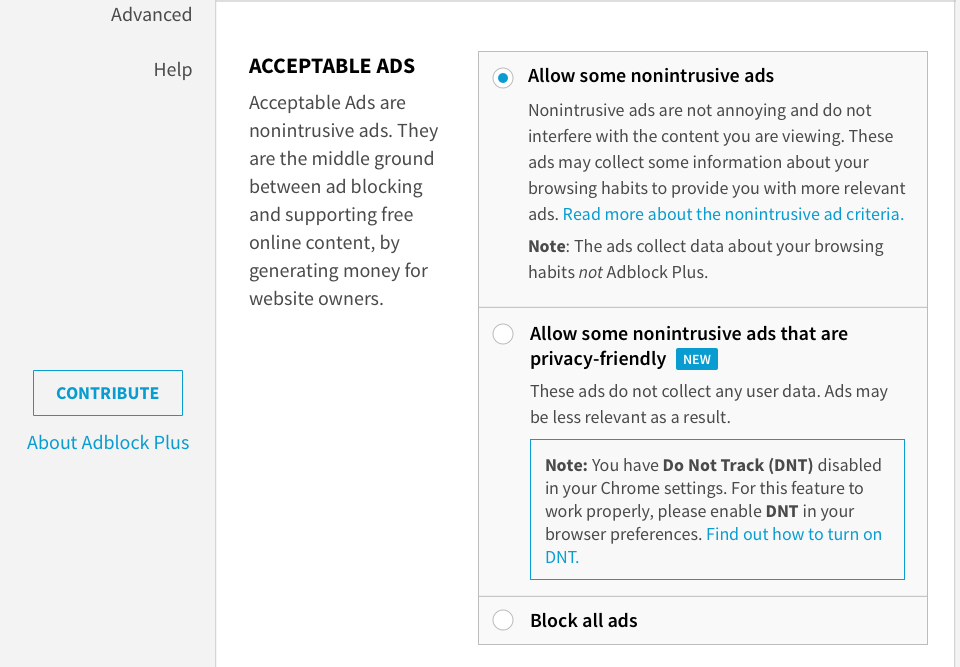
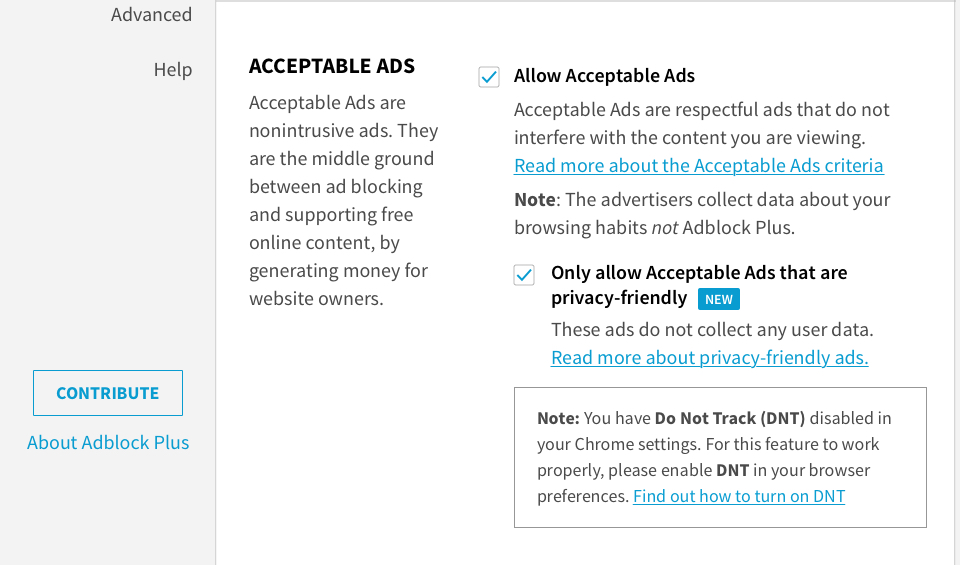
Issue #58: Removed "Block all ads" from Acceptable Ads options and updated corresponding screens.

diff --git a/spec/abp/options-page.md b/spec/abp/options-page.md
@@ -138,7 +138,7 @@ Refer to the table in [Recommended filter lists](#markdown-header-recommended-fi
 
 1. [Acceptable Ads section headline](#markdown-header-acceptable-ads-section-headline)
 1. [Acceptable Ads section description](#markdown-header-acceptable-ads-section-description)
-1. [Acceptable Ads table](#markdown-header-acceptable-ads-table)
+1. [Acceptable Ads options](#markdown-header-acceptable-ads-options)
 
 #### Acceptable Ads section headline
 `ACCEPTABLE ADS`
@@ -146,35 +146,43 @@ Refer to the table in [Recommended filter lists](#markdown-header-recommended-fi
 #### Acceptable Ads section description
 `Acceptable Ads are nonintrusive ads. They are the middle ground between ad blocking and supporting online content because they generate revenue for website owners.`
 
-#### Acceptable Ads table
-
+#### Acceptable Ads options
 ##### Selection type
-Radio button
+Check box
 
-##### Default bahaviour
+##### Allow Acceptable Ads
+`Allow Acceptable Ads` is selected on default. This enables the EasyPrivacy filter list.
 
-`Allow some nonintrusive ads` is selected on default.
+###### Title:
+`Allow Acceptable Ads`
 
-| Title | Description | Action | Filter list URL |
-|-------|-------------|--------|-----------------|
-| `Allow some nonintrusive ads` | `Nonintrusive ads are not annoying and do not interfere with the content you are viewing. These ads may collect some information about your browsing habits to provide you with more relevant ads.  [Read more about the nonintrusive ad criteria][1]` `**Note:** The ads collect data about your browsing habits **_not_** Adblock Plus.` | Enables `Allow non-intrusive advertising` filter list. | https://easylist-downloads.adblockplus.org/exceptionrules.txt |
-| `Allow only nonintrusive ads that are privacy-friendly` | `These ads do not collect personal user information and, therefore, may be less relevant.` | Enables Privacy friendly ads | https://easylist-downloads.adblockplus.org/exceptionrules-privacy-friendly.txt |
-| `Block all ads` | N/A | Disables `Allow nonintrusive advertising` filter list. | N/A |
+###### Description:
+`Acceptable Ads are respectful and do not interfere with the content you are viewing. [Read more about the Acceptable Ads criteria][1]` 
+
+`**Note:** The advertisers collect data about your browsing habits **_not_** Adblock Plus.` 
 
 [1]: Opens [Documentation link](/spec/abp/prefs.md#markdown-header-documentation-link): `%LINK%=acceptable_ads_criteria` in a new tab.
 
-##### Show nonintrusive ads
-The default setting.
+##### Only allow Acceptable Ads that are privacy-friendly
+This appears as a subset of the `Acceptable Ads` options, which enables the Privacy-friendly Acceptable Ads filter list. 
 
-##### Show nonintrusive ads that are privacy friendly
-This is a subset of the `Nonintrusive ads` which complies with [EEF’s DNT policy](https://www.eff.org/pages/understanding-effs-do-not-track-policy-universal-opt-out-tracking). 
+This option is only active when `Allow Acceptable Ads` is selected, otherwise it willl be inactive with reduced opacity.
 
-Label this setting as `NEW` during the user's first visit to the new options page. 
+###### Title:
+`Only allow Acceptable Ads that are privacy-friendly`
+
+###### Label:
+Labelled as `NEW` during the user's first visit to the new options page. 
+
+###### Description:
+`These ads do not collect any user data. [Read more about privacy-friendly ads][1]`
+
+[1]: Opens [Documentation link](/spec/abp/prefs.md#markdown-header-documentation-link): `%LINK%=privacy_friendly_ads` in a new tab.
 
 ##### Do not track conditions
 ![](/res/abp/options-page/general-default-acceptable-ads-dnt.jpg)
 
-If a user selects this option AND has DNT disabled, display the below text within the table:
+If a user selects `Only allow Acceptable Ads that are privacy-friendly` AND has DNT disabled, display the below text within the table:
 
 `**Note:** You have **Do Not Track (DNT)** disabled in your Chrome settings. For this feature to work properly, please enable **DNT** in your browser preferences. [Find out how to enable DNT][1] and redirect to the official browser instructions for enabling DNT)`
 

diff --git a/spec/adblockplus.org/documentation-link.md b/spec/adblockplus.org/documentation-link.md
@@ -74,6 +74,7 @@ The Documentation link page is used by the our adblocking products to redirect t
 |donate|IF APL|-|`https://adblockplus.org/donate`|
 |acceptable_ads|IF APL|-|`https://adblockplus.org/acceptable-ads`|
 |acceptable_ads_criteria|IF APL|-|`https://adblockplus.org/acceptable-ads#criteria`|
+|privacy_friendly_ads|IF APL|-|`https://adblockplus.org/acceptable-ads`|
 |contributors|IF APL|-|`https://adblockplus.org/contributors`|
 |whitelist|IF APL|-|`https://adblockplus.org/faq_basics#disable`|
 |adblock_plus|IF APL|-|`https://adblockplus.org`|
